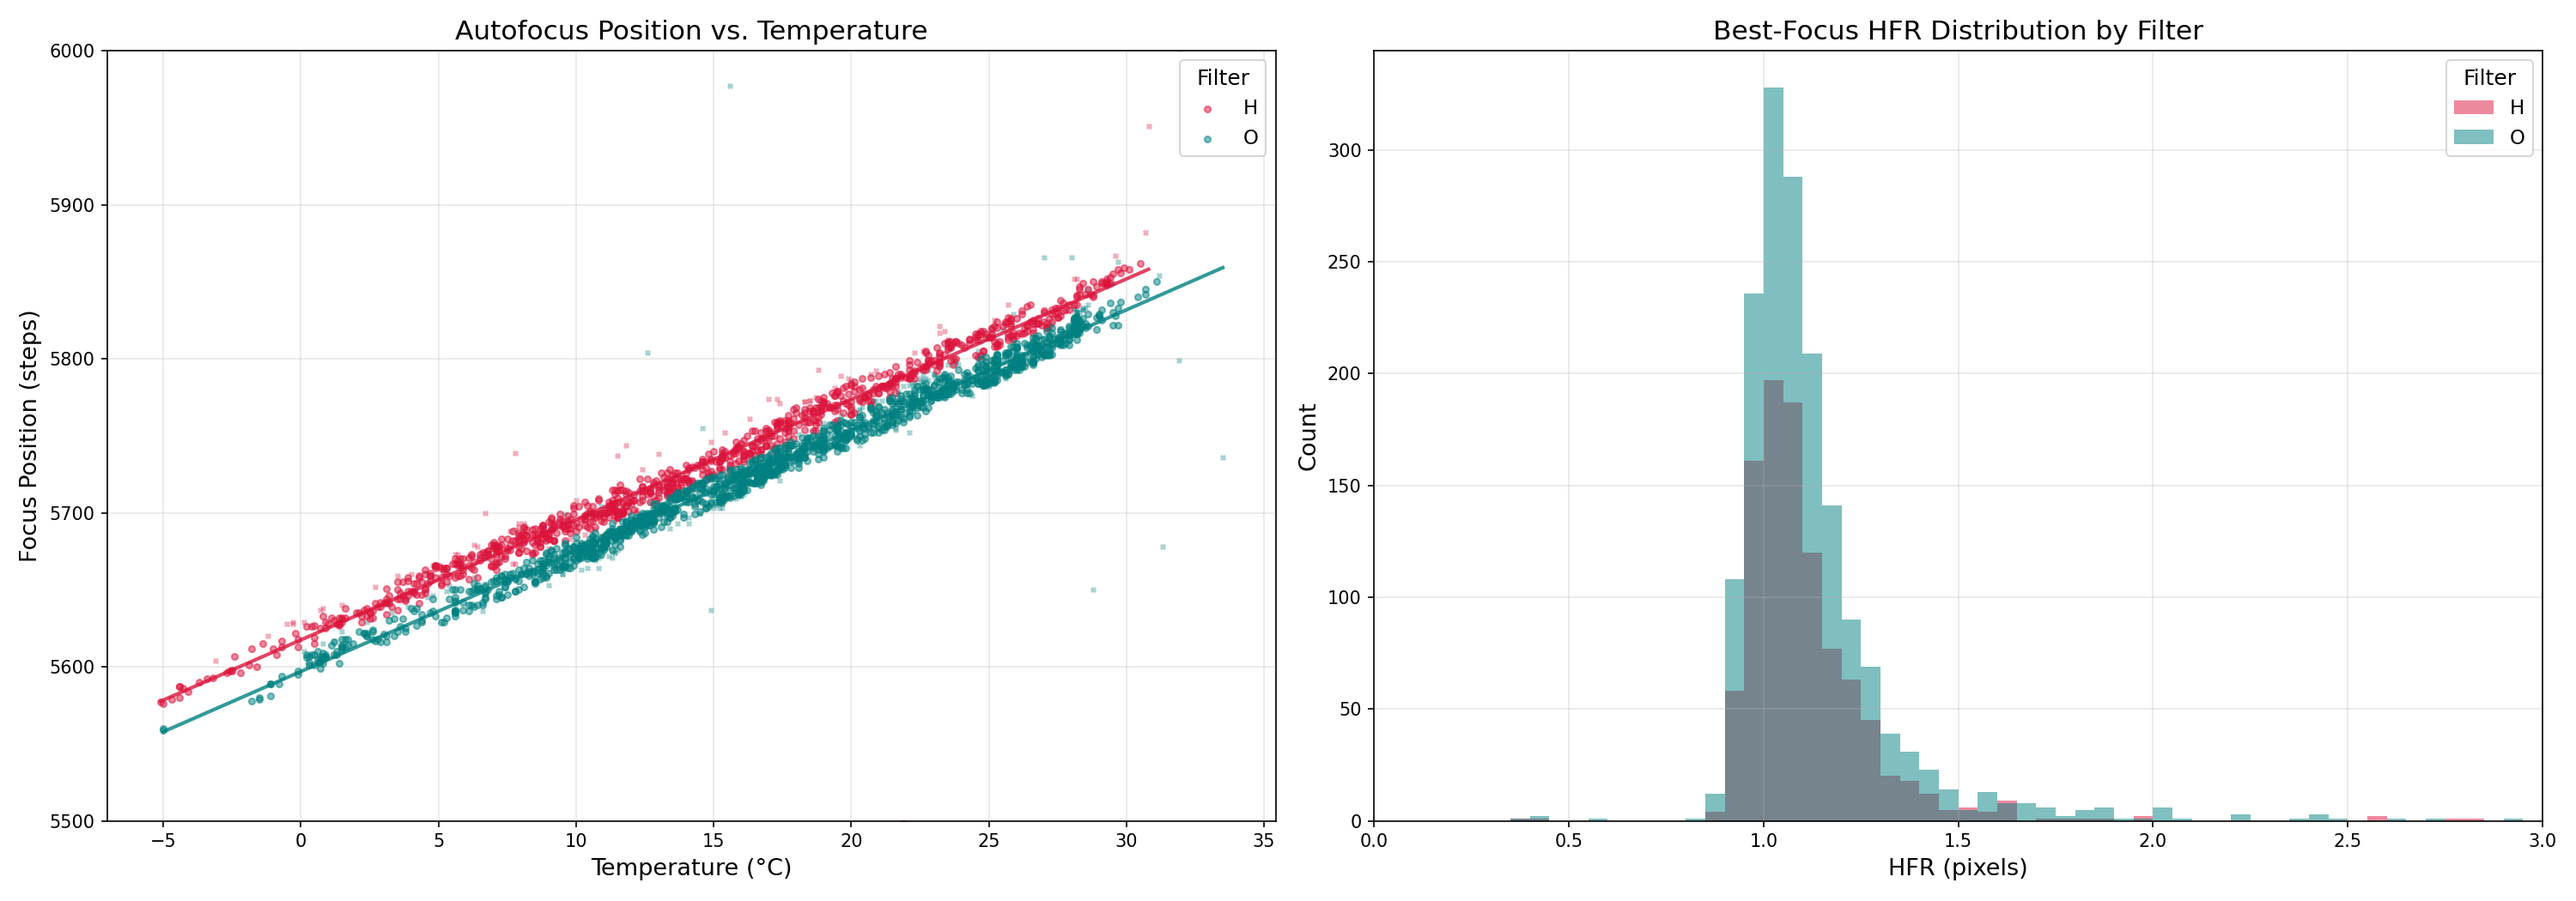
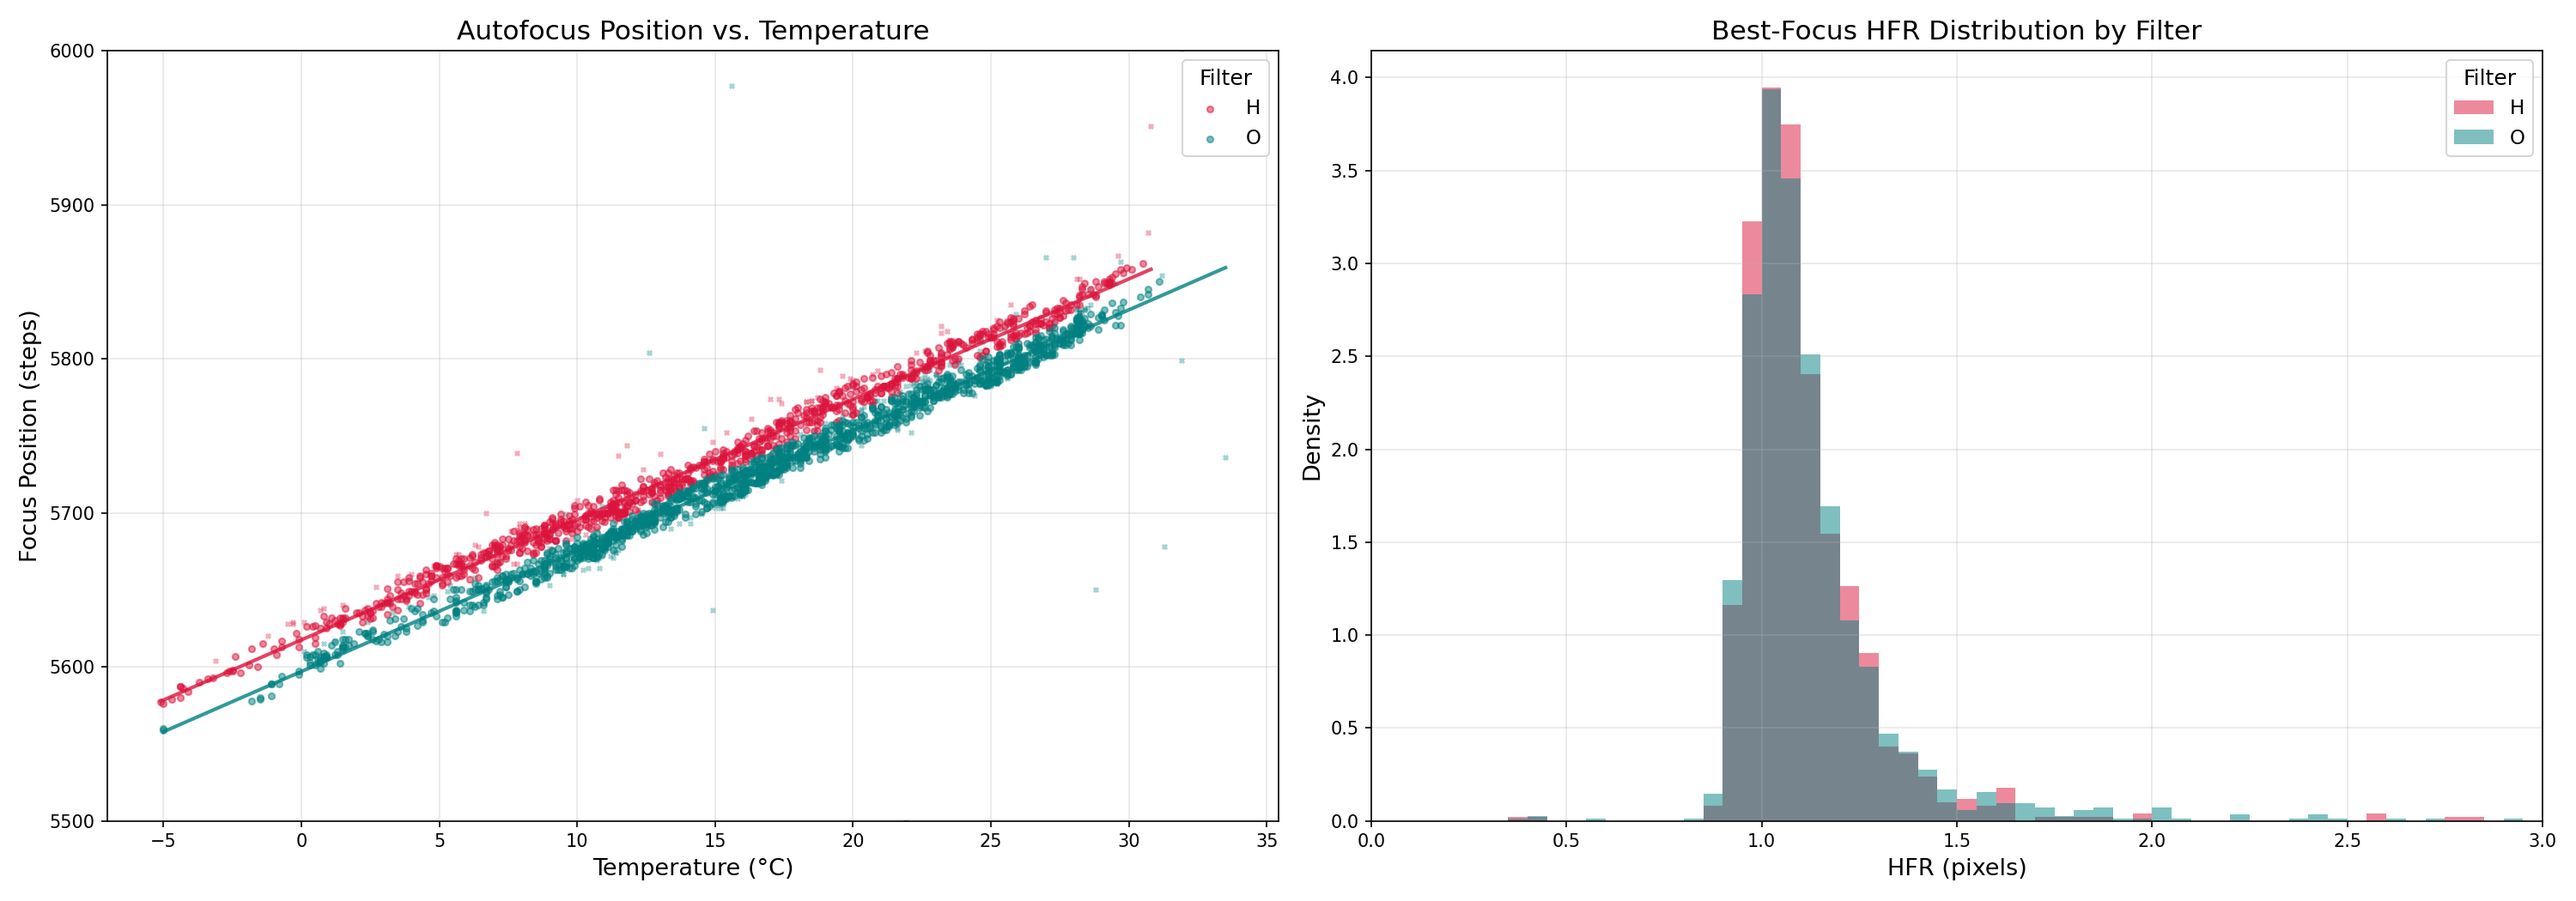
Density plot

diff --git a/analysis/plot_focus_vs_temp.py b/analysis/plot_focus_vs_temp.py
@@ -164,12 +164,13 @@ def plot_hfr_histogram(ax: plt.Axes, data: Dict[str, List[AutofocusResult]]) -> 
             continue
         color = FILTER_COLORS.get(filt, "black")
         ax.hist(
-            hfrs, bins=bins, alpha=0.5, color=color, label=filt, edgecolor="none",
+            hfrs, bins=bins, alpha=0.5, color=color, label=filt,
+            edgecolor="none", density=True,
         )
 
     ax.set_xlim(0, 3)
     ax.set_xlabel("HFR (pixels)", fontsize=13)
-    ax.set_ylabel("Count", fontsize=13)
+    ax.set_ylabel("Density", fontsize=13)
     ax.set_title("Best-Focus HFR Distribution by Filter", fontsize=15)
     ax.legend(title="Filter", fontsize=11, title_fontsize=12)
     ax.grid(True, alpha=0.3)
